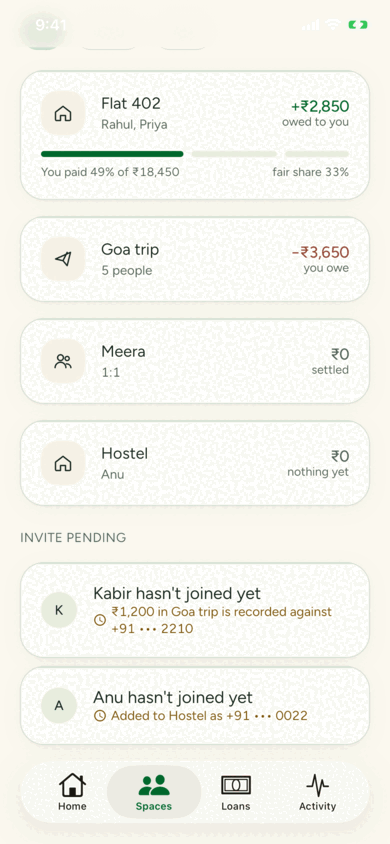
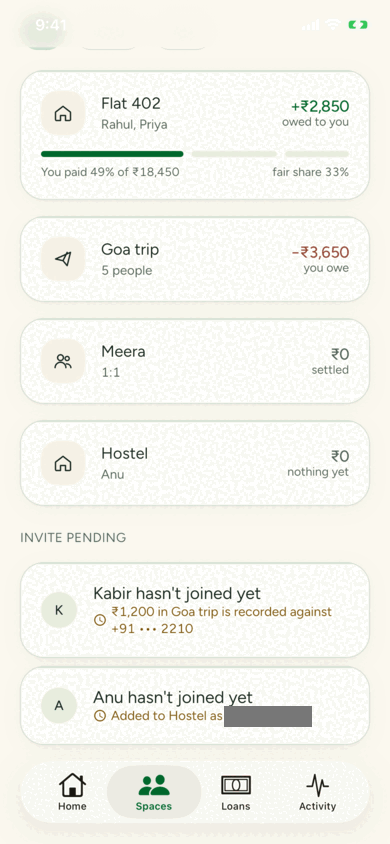
docs: mask missed contact number in UX evidence

Changed region(s): [[0.5538, 0.8318, 0.8, 0.8626]]

diff --git a/docs/audits/ux-2026-11-13.md b/docs/audits/ux-2026-11-13.md
@@ -12,7 +12,7 @@ Tester's words: "some things feel good, some feel awkward or broken." The good p
 - **Input:** real HID events through SimulatorKit's `SimDeviceLegacyHIDClient`: taps, drags, keyboard keys and on-screen keypad taps. This is the path from `docs/evidence/188/simtouch.m`, extended with key events. XCUITest was not used, so accessibility-label bugs are not masked (#188).
 - **Not covered:** a local Supabase stack was not run. Where the palette fakes have no side effect, the end of the flow was not verified: OTP verification flipping the session, sign-out and account deletion signing you out, and invite redemption. These flows are covered by `app/integration_test/sign_in_test.dart` and the profile tests. An installed UPI app can't exist in the simulator, so the return from a UPI app is code-read only. The dark palette was measured *before* #248 (PR #250) merged, all dark screenshots, including the tab bar, glass and B1 `picker-dark.png`, are historical pre-#250 evidence. They have not been recaptured or visually revalidated on current main; they do not establish the shipped dark appearance. The guidelines and brand tables now describe the shipped #250 tokens.
 
-**Evidence privacy:** `se-phone-keyboard.png` is cropped to the keyboard only to remove an unverified typed number. It supports W11’s missing Done-key observation, not the field or screen layout. The phone-number regions in `new-loan-add-person.png`, `loan-name-typed.png` and `loan-name-dropped.png` are covered with opaque grey boxes. The unverified-number recordings of adding a person and losing the loan name were removed; the rows below reference stills instead. Those stills show captured states, not the intervening interactions. All 47 stills were visually checked and OCR-scanned; all 12 original videos were sampled at two frames per second (206 frames) and OCR-scanned, with visual spot-checks. No other non-fixture phone numbers were found in the retained evidence; the Settings/Profile phone is fixture data and the confirmation reference is a UPI reference.
+**Evidence privacy:** `se-phone-keyboard.png` is cropped to the keyboard only to remove an unverified typed number. It supports W11’s missing Done-key observation, not the field or screen layout. The phone-number regions in `new-loan-add-person.png`, `loan-name-typed.png`, `loan-name-dropped.png` and the Anu row of `new-space-sheet.png` are covered with opaque grey boxes. The visible phone suffix in Anu’s row of `invite-pending.png` is also covered. The unverified-number recordings of adding a person and losing the loan name were removed; the rows below reference stills instead. Those stills show captured states, not the intervening interactions. The initial visual/OCR pass missed the Anu contact number, as identified in PR #263 review. All 47 stills were subsequently reopened and checked by eye, including contact rows and pending-invite suffixes; the two additional masks were visually checked after saving. No other unmasked non-fixture phone numbers were found in those stills; the Settings/Profile phone and Kabir pending-invite suffix match committed fixtures, and the confirmation reference is a UPI reference. The earlier video check sampled all 12 original videos at two frames per second (206 frames), with OCR and visual spot-checks; it was not a frame-by-frame visual review and was not repeated in this still-image follow-up.
 
 Fixture artefacts were ruled out before anything was logged. Examples: Activity still showed a repayment after it was confirmed on the loan, because the fakes don't share state. The new loan got a 24-hour reminder cooldown, because `FakeReminders` keeps one global cooldown. Neither is listed.
 
